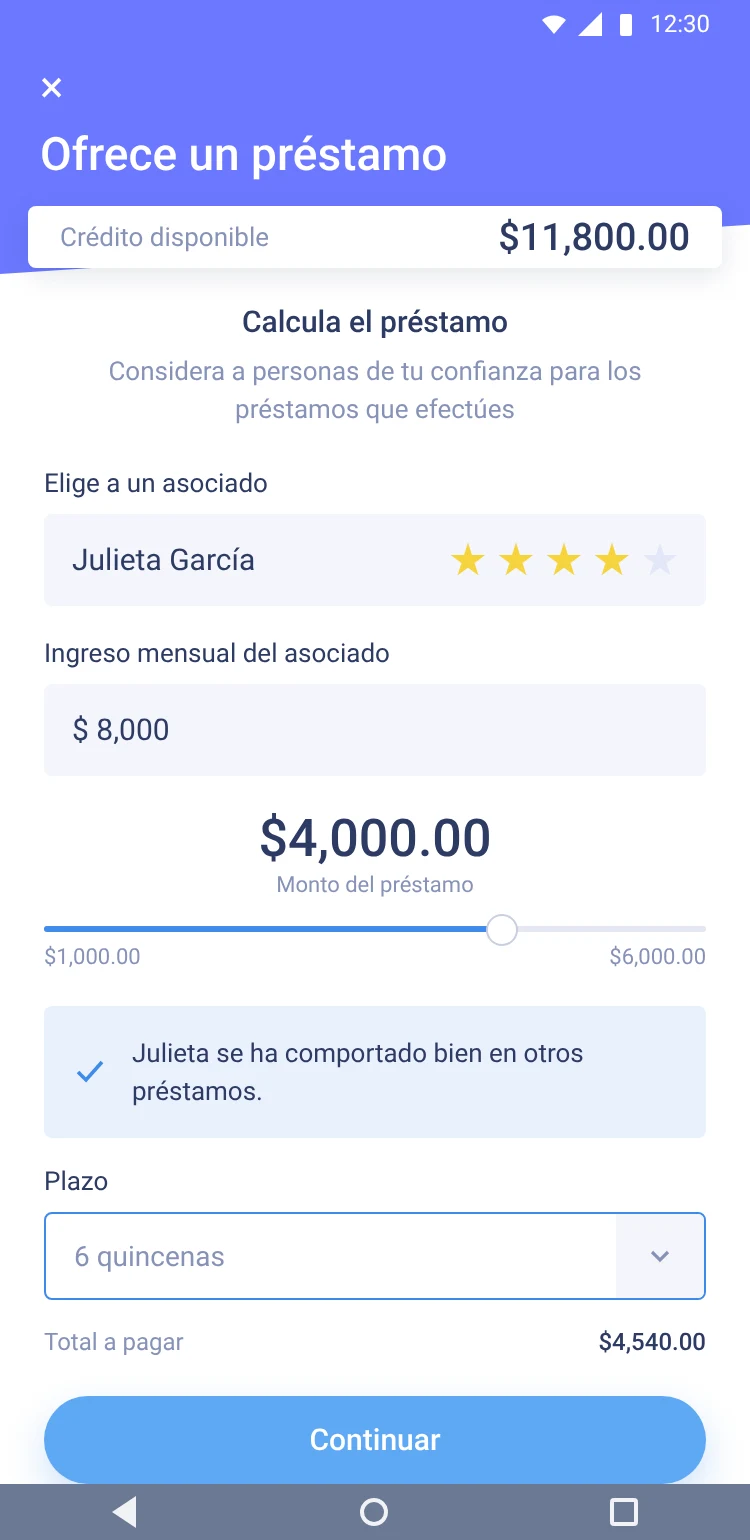
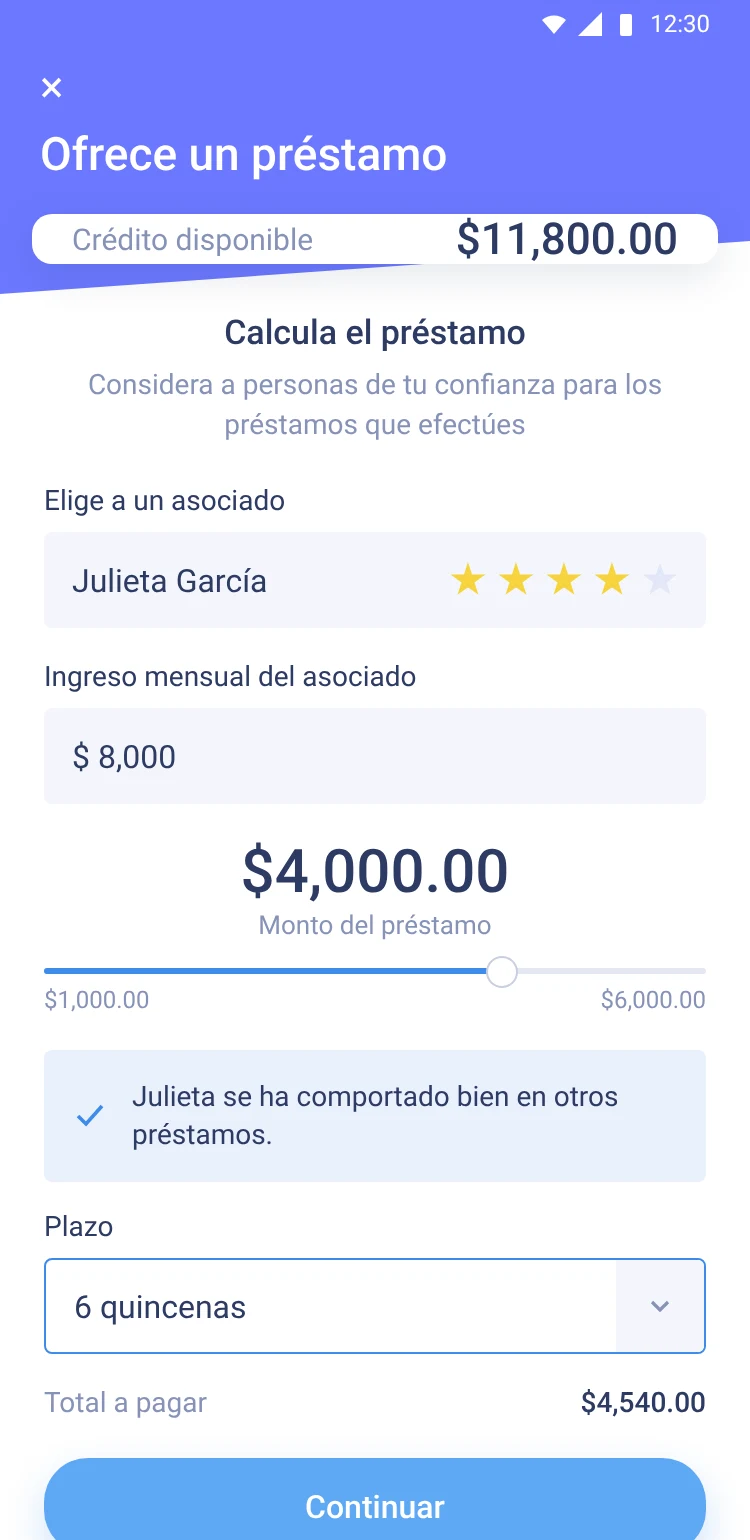
Volana in Work as 03 (NDA case moves to 04), roomier loan offer screen, no nav bar; prototype removed; OG card
Claude-Session: https://claude.ai/code/session_014oW9rryPzLSdmVNbG2KxAd

diff --git a/case-studies/volana/index.html b/case-studies/volana/index.html
@@ -12,6 +12,10 @@
   <meta property="og:title" content="Moving cash loans from the street to the phone">
   <meta property="og:description" content="Case study: Volana’s app, so people who lived on cash could sign up, track and pay their loans without a trip to the branch.">
   <meta property="og:url" content="https://savsgarcia.github.io/portfolio/case-studies/volana/">
+  <meta property="og:image" content="https://savsgarcia.github.io/portfolio/assets/og/volana.jpg">
+  <meta property="og:image:width" content="1200">
+  <meta property="og:image:height" content="630">
+  <meta property="og:image:alt" content="Moving cash loans from the street to the phone">
   <meta name="twitter:card" content="summary_large_image">
   <link rel="preconnect" href="https://fonts.googleapis.com">
   <link rel="preconnect" href="https://fonts.gstatic.com" crossorigin>
@@ -193,50 +197,7 @@
 
         <article class="cs-decision">
           <div class="cs-decision__text">
-            <p class="cs-label">03. Start from people you’ve lent to</p>
-            <h3>Find them, see their history, add them.</h3>
-            <p>Circles changed from loan to loan, but the people in them were often the same. Instead of signing everyone up again, borrowers searched the people they had already lent to, checked how they had paid, and added them to the new loan.</p>
-            <p>Try it: search for a name, open a member and add them to your circle.</p>
-            <p class="cs-chip"><span>Based on</span> Focus groups</p>
-          </div>
-          <div class="cs-decision__media vo-proto-wrap">
-            <section class="vo-proto" lang="es" aria-label="Interactive prototype: add a member to your circle">
-              <div class="vo-proto__bar"><span aria-hidden="true">12:30</span></div>
-
-              <div class="vo-proto__view" data-view="search">
-                <p class="vo-proto__title">Agrega a tu círculo</p>
-                <label class="vo-proto__label" for="vo-search">Busca a alguien a quien ya le prestaste</label>
-                <input class="vo-proto__search" id="vo-search" type="search" autocomplete="off" placeholder="Nombre del asociado">
-                <p class="vo-proto__count" aria-live="polite"></p>
-                <ul class="vo-proto__list"></ul>
-              </div>
-
-              <div class="vo-proto__view" data-view="member" hidden>
-                <button class="vo-proto__back" type="button">
-                  <svg width="16" height="16" viewBox="0 0 16 16" aria-hidden="true"><path d="M13 8H3m4-4L3 8l4 4" stroke="currentColor" stroke-width="1.5" fill="none"/></svg>
-                  Volver
-                </button>
-                <p class="vo-proto__title" tabindex="-1" data-mname></p>
-                <p class="vo-proto__stars" data-stars></p>
-                <dl class="vo-proto__facts">
-                  <div><dt>Préstamos contigo</dt><dd data-loans></dd></div>
-                  <div><dt>Pagos a tiempo</dt><dd data-ontime></dd></div>
-                  <div><dt>Último préstamo</dt><dd data-last></dd></div>
-                </dl>
-                <p class="vo-proto__note" data-note></p>
-                <button class="vo-proto__btn" type="button" data-add>Agregar al círculo</button>
-              </div>
-
-              <p class="vo-proto__toast" role="status"></p>
-            </section>
-          </div>
-        </article>
-
-        <hr class="cs-rule cs-rule--dotted">
-
-        <article class="cs-decision cs-decision--reverse">
-          <div class="cs-decision__text">
-            <p class="cs-label">04. Reward on-time payment</p>
+            <p class="cs-label">03. Reward on-time payment</p>
             <h3>Good habits, made visible.</h3>
             <p>We used behavioral economics: when a loan closes, the borrower rates the member, and that rating becomes part of their history. Paying on time builds a reputation people can see.</p>
             <p class="cs-chip"><span>Based on</span> Behavioral economics</p>
@@ -276,6 +237,5 @@
   </div>
 
   <script src="../case-study.js"></script>
-  <script src="proto.js"></script>
 </body>
 </html>

diff --git a/case-studies/volana/volana.css b/case-studies/volana/volana.css
@@ -45,44 +45,3 @@
   .vo-journey__curve polyline { fill: none; stroke: var(--cs-accent-line); stroke-width: 2; stroke-dasharray: 4 4; vector-effect: non-scaling-stroke; }
   .vo-journey__change { border-top: 1px dashed var(--cs-line, #DDD9CC); }
 }
-
-/* Prototype: a phone-sized, working version of the member search (proto.js) */
-.vo-proto-wrap { display: flex; justify-content: center; }
-.vo-proto {
-  --vp-brand: #5A66F2; --vp-ink: #2D3A63; --vp-muted: #5C6790; --vp-soft: #F3F5FB; --vp-line: #E4E8F2;
-  width: 300px; height: 616px; background: #fff; border-radius: 20px; overflow: hidden; position: relative;
-  display: flex; flex-direction: column; color: var(--vp-ink); font-size: 14px; line-height: 20px;
-  box-shadow: 0 12px 40px rgba(45, 58, 99, .14), 0 0 0 1px rgba(45, 58, 99, .06);
-}
-.vo-proto__bar { background: var(--vp-brand); color: #fff; font-size: 11px; text-align: right; padding: 4px 14px; }
-.vo-proto__view { display: flex; flex-direction: column; flex: 1; min-height: 0; padding: 16px; }
-.vo-proto__view[hidden] { display: none; }
-.vo-proto__title { font-size: 19px; line-height: 26px; font-weight: 500; margin: 0 0 12px !important; }
-.vo-proto__title:focus { outline: none; }
-.vo-proto__title:focus-visible { outline: 2px solid var(--vp-brand); outline-offset: 2px; }
-.vo-proto__label { font-size: 12px; color: var(--vp-muted); }
-.vo-proto__search { margin-top: 4px; height: 44px; border: 1px solid #B8C0DB; border-radius: 6px; padding: 0 12px; font: inherit; color: var(--vp-ink); background: var(--vp-soft); }
-.vo-proto__search:focus-visible { outline: 2px solid var(--vp-brand); outline-offset: 1px; }
-.vo-proto__count { font-size: 12px; color: var(--vp-muted); margin: 12px 0 4px !important; }
-.vo-proto__list { list-style: none; margin: 0 -16px; padding: 0; overflow-y: auto; flex: 1; }
-.vo-proto__item { all: unset; box-sizing: border-box; width: 100%; display: block; padding: 10px 16px; border-bottom: 1px solid var(--vp-line); cursor: pointer; }
-.vo-proto__item:hover { background: var(--vp-soft); }
-.vo-proto__item:focus-visible { outline: 2px solid var(--vp-brand); outline-offset: -2px; }
-.vo-proto__name { display: block; font-weight: 500; }
-.vo-proto__meta { display: flex; gap: 8px; align-items: center; font-size: 12px; color: var(--vp-muted); }
-.vo-proto__stars-sm { color: #B98A00; letter-spacing: 1px; }
-.vo-proto__badge { background: #E5ECFF; color: #3443C9; border-radius: 10px; padding: 0 8px; }
-.vo-proto__back { all: unset; display: inline-flex; gap: 6px; align-items: center; font-size: 13px; color: #3443C9; cursor: pointer; align-self: flex-start; margin-bottom: 16px; min-height: 24px; }
-.vo-proto__back:focus-visible { outline: 2px solid var(--vp-brand); outline-offset: 2px; }
-.vo-proto p.vo-proto__stars { color: #B98A00; font-size: 22px; letter-spacing: 3px; margin: 0 !important; }
-.vo-proto__facts { margin: 20px 0 0; display: grid; gap: 10px; }
-.vo-proto__facts div { display: flex; justify-content: space-between; border-bottom: 1px solid var(--vp-line); padding-bottom: 8px; }
-.vo-proto__facts dt { color: var(--vp-muted); }
-.vo-proto__facts dd { margin: 0; font-weight: 500; }
-.vo-proto__note { background: #EAF1FD; border-radius: 6px; padding: 12px; margin: 20px 0 0 !important; font-size: 13px; }
-.vo-proto__note.is-warn { background: #FFF4DD; }
-.vo-proto__btn { margin-top: auto; height: 44px; border: 0; border-radius: 22px; background: #3D6FE0; color: #fff; font: inherit; font-weight: 500; cursor: pointer; }
-.vo-proto__btn:disabled { background: #D3E0FB; color: #3443C9; cursor: default; }
-.vo-proto__btn:focus-visible { outline: 2px solid var(--vp-ink); outline-offset: 2px; }
-.vo-proto__toast:empty { display: none; }
-.vo-proto p.vo-proto__toast { position: absolute; left: 12px; right: 12px; bottom: 12px; margin: 0 !important; background: var(--vp-ink); color: #fff; border-radius: 8px; padding: 10px 12px; font-size: 13px; }

diff --git a/styles.css b/styles.css
@@ -279,8 +279,10 @@ button { font: inherit; color: inherit; background: none; border: 0; padding: 0;
   .view--work .col--projects { grid-column: 1; grid-row: 1; padding: var(--top) 40px 0; }
   .view--work .col--text { grid-column: 1; grid-row: 2; padding: 48px 40px 40px; }
   .view--work .col--visual { grid-column: 2; grid-row: 1 / -1; }
-  .view--work .projects { flex-direction: row; flex-wrap: wrap; align-items: flex-end; gap: 8px 40px; }
+  /* One row of tabs: each column takes its title's width, and long titles wrap when the row is tight */
+  .view--work .projects { display: grid; grid-auto-flow: column; grid-auto-columns: auto; justify-content: start; align-items: stretch; gap: 8px 32px; }
   .view--work .project-tab { padding-top: 0; }
+  .view--work .project-tab-title { white-space: normal; }
   .view--work .project-copy { max-width: none; }
   .project-copy .display { font-size: clamp(40px, 3.75vw, 60px); line-height: 1.04; text-wrap: balance; }
   .project-copy .lede { max-width: 580px; }
@@ -408,6 +410,7 @@ a.cta:focus-visible svg { transform: translateX(4px); }
   width: 84%;
 }
 .project-image--order-sets { width: 186%; left: calc(var(--img-start) - 0.93%); }
+.project-image--volana { width: 150%; left: var(--img-start); }
 
 /* ---------- Experience ---------- */
 
@@ -648,7 +651,8 @@ a.cta:focus-visible svg { transform: translateX(4px); }
   .project-image,
   .project-image--viu,
   .project-image--order-entry,
-  .project-image--order-sets {
+  .project-image--order-sets,
+  .project-image--volana {
     position: static;
     width: 100%;
     max-width: 100%;
@@ -750,7 +754,8 @@ a.cta:focus-visible svg { transform: translateX(4px); }
   .case-visual .project-image,
   .case-visual .project-image--viu,
   .case-visual .project-image--order-entry,
-  .case-visual .project-image--order-sets {
+  .case-visual .project-image--order-sets,
+  .case-visual .project-image--volana {
     position: static;
     display: block;
     width: 100%;
@@ -841,6 +846,7 @@ a.cta:focus-visible svg { transform: translateX(4px); }
   .view--work > .col--visual .project-image--viu { width: 120%; left: calc(var(--img-start) - 0.97%); }
   .view--work > .col--visual .project-image--order-entry { width: 84%; left: 8%; }
   .view--work > .col--visual .project-image--order-sets { width: 186%; left: calc(var(--img-start) - 0.93%); }
+  .view--work > .col--visual .project-image--volana { width: 150%; left: var(--img-start); }
 }
 
 /* Tablet to small desktop (700–1099px): About keeps the desktop

diff --git a/script.js b/script.js
@@ -26,8 +26,17 @@
       image: 'assets/img/viu.webp', width: 1986, height: 1614,
       alt: 'VIU by HUB account screen: a personal dashboard greeting Frankie with all their policies and recommended coverage.'
     },
+    'volana': {
+      num: '03', name: 'Cash loans app', client: 'Volana',
+      title: 'Moving cash loans from the street to the phone',
+      description: 'Designing an app so people who lived on cash could sign up, track and pay their loans without a trip to the branch.',
+      cta: '<a class="cta cta--stretched" href="case-studies/volana/" data-umami-event="See case study" data-umami-event-project="volana">See case study ' + chevron + '</a>',
+      bg: '#DDE0FC',
+      image: 'assets/img/volana.webp', width: 1920, height: 1232,
+      alt: 'Three Volana screens: the borrower’s wallet with the next payment, offering a loan to a trusted member, and rating a member when a loan closes.'
+    },
     'order-entry': {
-      num: '03', name: 'AI-assisted order entry', client: 'Oracle',
+      num: '04', name: 'AI-assisted order entry', client: 'Oracle',
       title: 'How Dr. Haven got help ordering, only when he asked for it',
       description: 'Designing AI-assisted order entry for an EHR: when the assistant helps, and when it steps aside.',
       cta: '<span class="cta cta--locked">Available on request · NDA ' + lock + '</span>',

diff --git a/index.html b/index.html
@@ -81,8 +81,12 @@
               <span class="project-tab-num" aria-hidden="true">02</span><span class="project-tab-title">Insurance profile</span>
               <span class="project-tab-client">VIU by HUB</span>
             </button>
+            <button class="project-tab" role="tab" id="tab-volana" aria-controls="panel-project" aria-selected="false" tabindex="-1" data-project="volana" data-umami-event="Project tab" data-umami-event-project="volana">
+              <span class="project-tab-num" aria-hidden="true">03</span><span class="project-tab-title">Cash loans app</span>
+              <span class="project-tab-client">Volana</span>
+            </button>
             <button class="project-tab" role="tab" id="tab-order-entry" aria-controls="panel-project" aria-selected="false" tabindex="-1" data-project="order-entry" data-umami-event="Project tab" data-umami-event-project="order-entry">
-              <span class="project-tab-num" aria-hidden="true">03</span><span class="project-tab-title">AI-assisted order entry</span>
+              <span class="project-tab-num" aria-hidden="true">04</span><span class="project-tab-title">AI-assisted order entry</span>
               <span class="project-tab-client">Oracle</span>
             </button>
           </div>

diff --git a/CLAUDE.md b/CLAUDE.md
@@ -3,7 +3,7 @@
 Static personal portfolio: plain HTML, CSS and JavaScript, no build step.
 
 - `index.html` — structure and content (Work, Experience, About views, switched by URL hash)
-- `styles.css` — design tokens and layout (desktop ≥1240px with the sidebar, small desktop 1025–1239px, tablet 700–1024px, phone <700px; below 1240px the sidebar becomes the top bar and hamburger menu). Work shows the stacked use cases at 1024px and below. From 700 to 1024px content sits in a centered 720px column (`--gutter` grows with the screen), while the image panel spans the full width with the image aligned to the text edges; the top bar and open menu stay full width with 40px side margins. From 1240px the Work title follows one fluid scale, `clamp(40px, min(4vw, 6.8vh), 96px)`: it grows with the window's width, is held back by its height, and reaches 96px only on large screens. Small desktop keeps the Work tabs layout with the hamburger menu (the sidebar would leave the tabs too little room to fit one row). At 1024px and below the Work project titles use the case study title style (40/44px tablet, 36/40px phone, `text-wrap: balance`)
+- `styles.css` — design tokens and layout (desktop ≥1240px with the sidebar, small desktop 1025–1239px, tablet 700–1024px, phone <700px; below 1240px the sidebar becomes the top bar and hamburger menu). Work shows the stacked use cases at 1024px and below. From 700 to 1024px content sits in a centered 720px column (`--gutter` grows with the screen), while the image panel spans the full width with the image aligned to the text edges; the top bar and open menu stay full width with 40px side margins. From 1240px the Work title follows one fluid scale, `clamp(40px, min(4vw, 6.8vh), 96px)`: it grows with the window's width, is held back by its height, and reaches 96px only on large screens. Small desktop keeps the Work tabs layout with the hamburger menu (the sidebar would leave the tabs too little room to fit one row). At 1024px and below the Work project titles use the case study title style (40/44px tablet, 36/40px phone, `text-wrap: balance`). Work has four projects: 01 Order sets, 02 VIU, 03 Volana, 04 AI-assisted order entry (under NDA, always last). From 1240px the tabs are a one-row grid; long titles wrap when the row is tight
 - `script.js` — view routing, project switcher, stacked use cases on smaller screens, mobile menu
 - `assets/img/` — project images and portrait (exported from Figma)
 - `assets/og/` — 1200×630 share images (Open Graph / Twitter tags in each page's `<head>`, absolute URLs on savsgarcia.github.io/portfolio); `assets/cv/` — resume PDFs (EN, ES), linked from the sidebar and About
@@ -58,7 +58,7 @@ The tests serve the site on port 4173, open every page (and every hash view of `
   - "See raw data" opens a native `<dialog>` (focus trapped, Esc closes, focus returns to the button). Below 700px it opens as a bottom sheet with the screenshot first.
   - Per case study: `--cs-hero-bg` (the top band, a very light tint of the project's color; Order sets `#F6EEF2`), `--cs-accent-line` (the Overview line, in the project's color from Work) and `--cs-hero-fade` (where the hero fades; 82% for device mockups). Order sets is the exception: its hero is the full screen at full opacity, no fade, at most the content column and at least 40px from each side.
   - Order sets (`case-studies/order-sets/`) adds `tour.js` (a click-through walkthrough: one screen at a time, chapters, a 44px green hotspot button per step, notes in the Final note style, Back/Next, a native `<dialog>` for the before/after) and `flow.js` (one interactive flowchart: lanes and Yes/No are real buttons with `aria-pressed`, the outcome is written below in an `aria-live` paragraph; opens fitted, zooms with + / −). Screens come from the uploaded 3840px PNGs, converted to 2880px WebP.
-- Volana (`case-studies/volana/`) is a short case study: no validation module. It adds `volana.css` (Volana's blue, phone-sized screens, the customer journey: stages as columns aligned with subgrid on desktop and cards below 1100px, feelings as an emoji plus the word, the curve is decorative) and `proto.js` (a working, Spanish-language prototype of the member search: fictional members, search, member detail with track record, "Agregar al círculo"; focus moves with each view and returns to the list, Esc goes back, results and confirmation are announced). Screens are recreations of the 2019 designs, rendered from HTML.
+- Volana (`case-studies/volana/`) is a short case study: no validation module. It adds `volana.css` (Volana's blue, phone-sized screens, the customer journey: stages as columns aligned with subgrid on desktop and cards below 1100px, feelings as an emoji plus the word, the curve is decorative). Screens are recreations of the 2019 designs, rendered from HTML.
 - The project switcher on desktop is a tablist (`role="tab"` + `aria-selected`, roving tabindex 0/-1, arrow keys).
 - Inactive project numbers use `--num-idle: #93918A`, the lightest warm grey that meets 3:1 at 24px.
 - The index links, Tested/Final control, annotations switch, dialogs and gallery rules apply to the case study pages when they are built.
